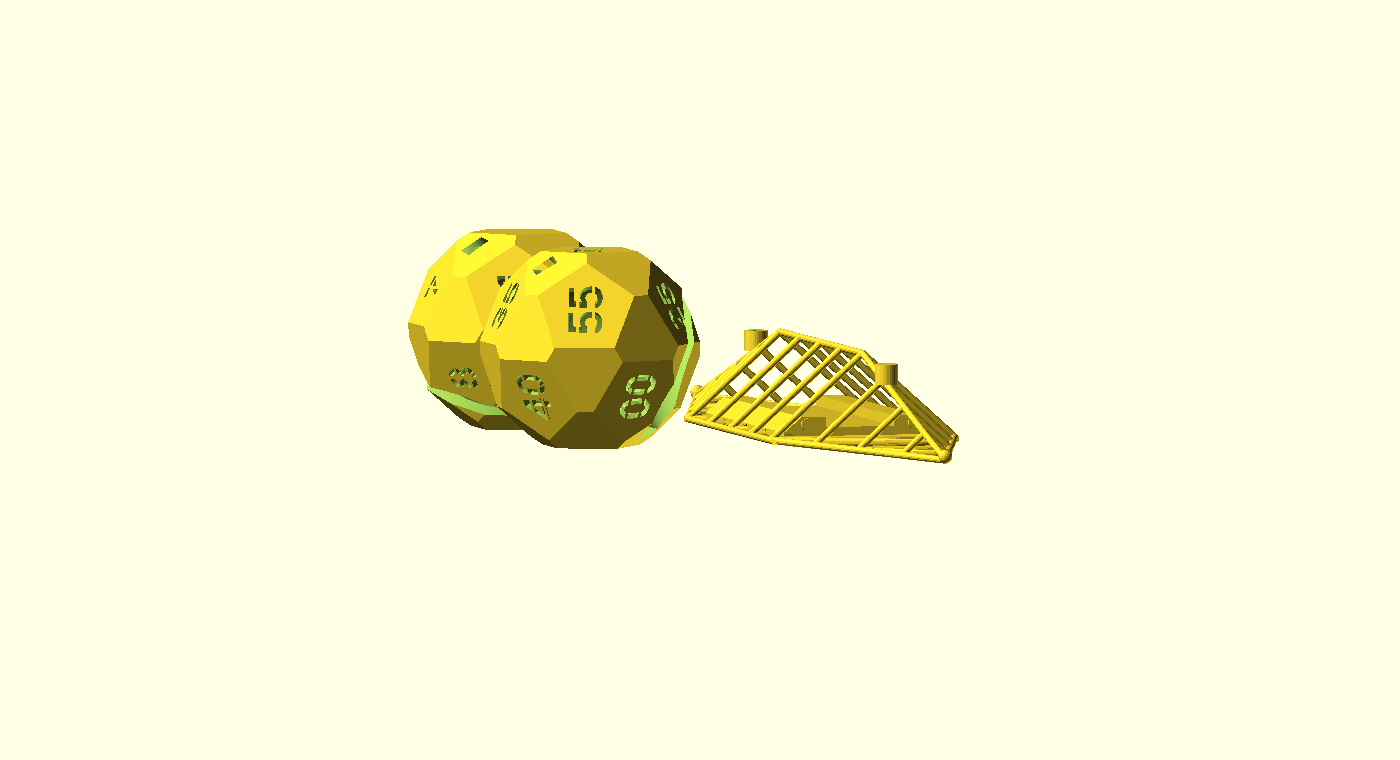
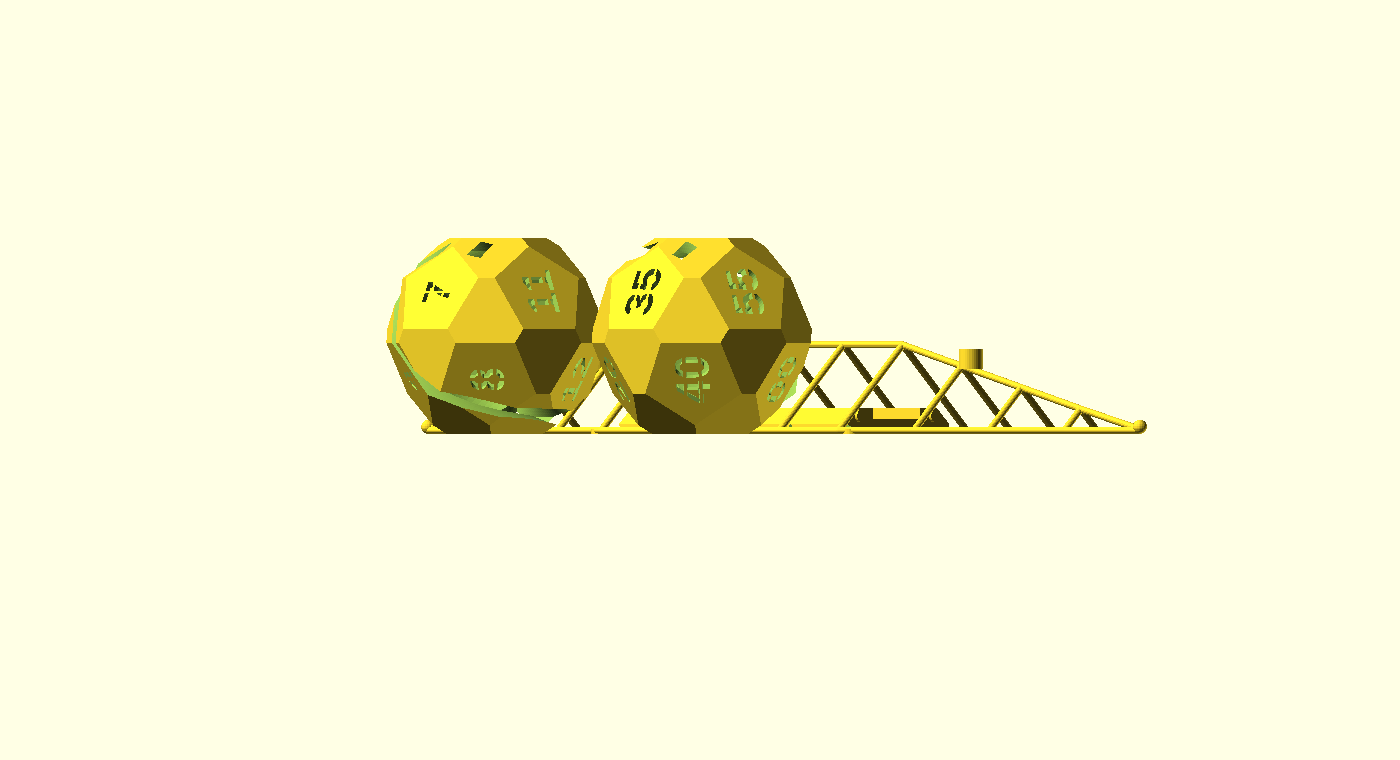
docs(ovodyo): reframe unfrozen what-ships-side so the balls separate
PM triage 21:14Z act-nows on 1f46774 (PR #975):
- what-ships-side camera 0,-50,20,86,0,75,760 -> 0,-50,20,90,0,42,760
  (Jane's levers): at 75 deg the two balls stacked into one blob; at
  rz 42 they stand apart with daylight between them, and 90 deg
  elevation puts everything on one literal desk line. Still ortho,
  still part="what-ships"; what-ships itself is untouched.
- Caption gains the inside-face green clause its siblings carry.
- Synced cameras.conf comment, CAMERAS.md, README and PM.md shot list.
- PM.md decision-log rows: reframe (Drik's receding pair recorded as
  owner-at-freeze alternative), green clause, pole-rim Care line
  queued to #601/FIELD-TEST, slot-is-not-the-interaction guard and
  the #604 landing-behavior note.

No geometry change. PNG rendered locally with OpenSCAD nightly; regen
stamp refreshed.

Agent: Bevel

Changed region(s): [[0.2764, 0.3026, 0.8293, 0.6053]]

diff --git a/designs/ovodyo/PM.md b/designs/ovodyo/PM.md
@@ -82,7 +82,7 @@ new region = new camera line.
 |---|---|---|---|---|
 | hero | assembled clock intent (two-tone) | three-quarter | red preview + white | assembled |
 | what-ships | single-material honesty | three-quarter | monochrome | `part="what-ships"` |
-| what-ships-side | separate parts on one ground line (companion) | low side, ortho | monochrome | `part="what-ships"` |
+| what-ships-side | separate parts on one ground line (companion) | desk-level side, ortho | monochrome | `part="what-ships"` |
 | hours-ball | one faceted die, numerals + slot | three-quarter | shell | `part="hours-ball"` |
 | slot-path | #768 corner-crossing band | near-equator | shell (`render`) | `part="hours-ball"` |
 | slot-window | aperture as a window | into the slot | OpenCSG red core | `part="hours-ball"` |
@@ -144,3 +144,7 @@ on geometry-true renders until a PM deliberately asks for one.
 | 2026-10-31 | Jane's 1.5–2.5 mm ridge-chord sag expectation recorded as a **field-test check** against the page's ~1 mm — do not promote unmeasured | Jane bench-sense / PM triage |
 | 2026-10-31 | Queue notes: #768 measure slot-to-plaque wall strip (≥2 mm fine / <1.5 mm nudge); #603 Jane ×2 endorsements (vent + bumper chamfer); #599 PEI-plate note for insert show faces; #600 `base-core` accent as cheapest two-tone | Jane/Drik / PM triage |
 | 2026-10-31 | Owner option at freeze look: new `hero-wide` camera line (never reframe frozen hero). Open decisions unchanged — owner `/decide`/merge on #768/#914 remains the blocking call | Jane decline → owner option / PM triage |
+| 2026-11-01 | **`what-ships-side` re-framed while unfrozen** (Jane at `1f46774`: at 86°/75° the two balls stacked into one blob): now 90° elevation (one literal desk line), rz 42°, ortho; `what-ships` untouched. Owner-at-freeze alternative: Drik's receding matched pair ("two dice, one of each") | Jane/Drik / PM triage act-now |
+| 2026-11-01 | `what-ships-side` caption gains the inside-face green clause its siblings carry (renderer tint, not filament); caption freezes with the camera | Jane / PM triage act-now |
+| 2026-11-01 | Queued: Care line on leveling the pole rim (v0 always rests on a bed face) — rides the first FIELD-TEST / #601 prose touch with the spill line and leftover-shot parenthetical | Jane bench-sense / PM triage |
+| 2026-11-01 | Standing guard: v0 copy never sells the 10 mm slot as the interaction — it is a grip assist and a look. #604 note: landing behavior (a die that parks crooked reads as broken) is v0 hot-path, not post-#604 | Drik R3 / PM triage |

diff --git a/designs/ovodyo/previews/CAMERAS.md b/designs/ovodyo/previews/CAMERAS.md
@@ -38,7 +38,10 @@ fixed once reviewed; a new region gets a new line).
   CGAL `render` (inside-face green may still show in the voids — renderer tint,
   not filament). Beside the v0 banner; must not replace the hero.
 - **what-ships-side** — companion to the frozen `what-ships` shot, added after
-  Jane's PR #975 round read the balls as merged into the truss: near-horizontal,
-  turned 75° and orthographic, so both balls rest on their pole pentagons on the
-  same line as the truss chord undersides, with daylight between balls and base.
-  It proves what the `what-ships` caption claims. New line; `what-ships` is untouched.
+  Jane's PR #975 round read the balls as merged into the truss: level (90°
+  elevation), turned 42° and orthographic, so both balls rest on their pole
+  pentagons on one desk line with the truss chord undersides, standing apart with
+  daylight between them. Re-framed from 86°/75° while still unfrozen, because at
+  that turn the two balls stacked into one read. It proves what the `what-ships`
+  caption claims. New line; `what-ships` is untouched. Inside-face green is
+  renderer tint, not filament.

diff --git a/designs/ovodyo/README.md b/designs/ovodyo/README.md
@@ -56,10 +56,11 @@ until [#604](https://github.com/shaiss/print-bench/issues/604) lands a retained 
 
 ![What ships, from the side](previews/what-ships-side.png)
 
-*The same single-material set from low and to the side, so you can see it's
-separate parts: both balls rest on a pole pentagon on the same desk line as the
-truss underside, with a gap between them and the base. Nothing is fused and
-nothing hangs off the truss.*
+*The same single-material set from desk level and to the side, so you can see
+it's separate parts: both balls rest on a pole pentagon on the same desk line as
+the truss underside, standing apart from each other in front of the base.
+Nothing is fused and nothing hangs off the truss. Green inside the cuts is the
+renderer's inside-face colour, not a second filament.*
 
 ![4-view contact sheet](previews/contact-sheet.png)
 
